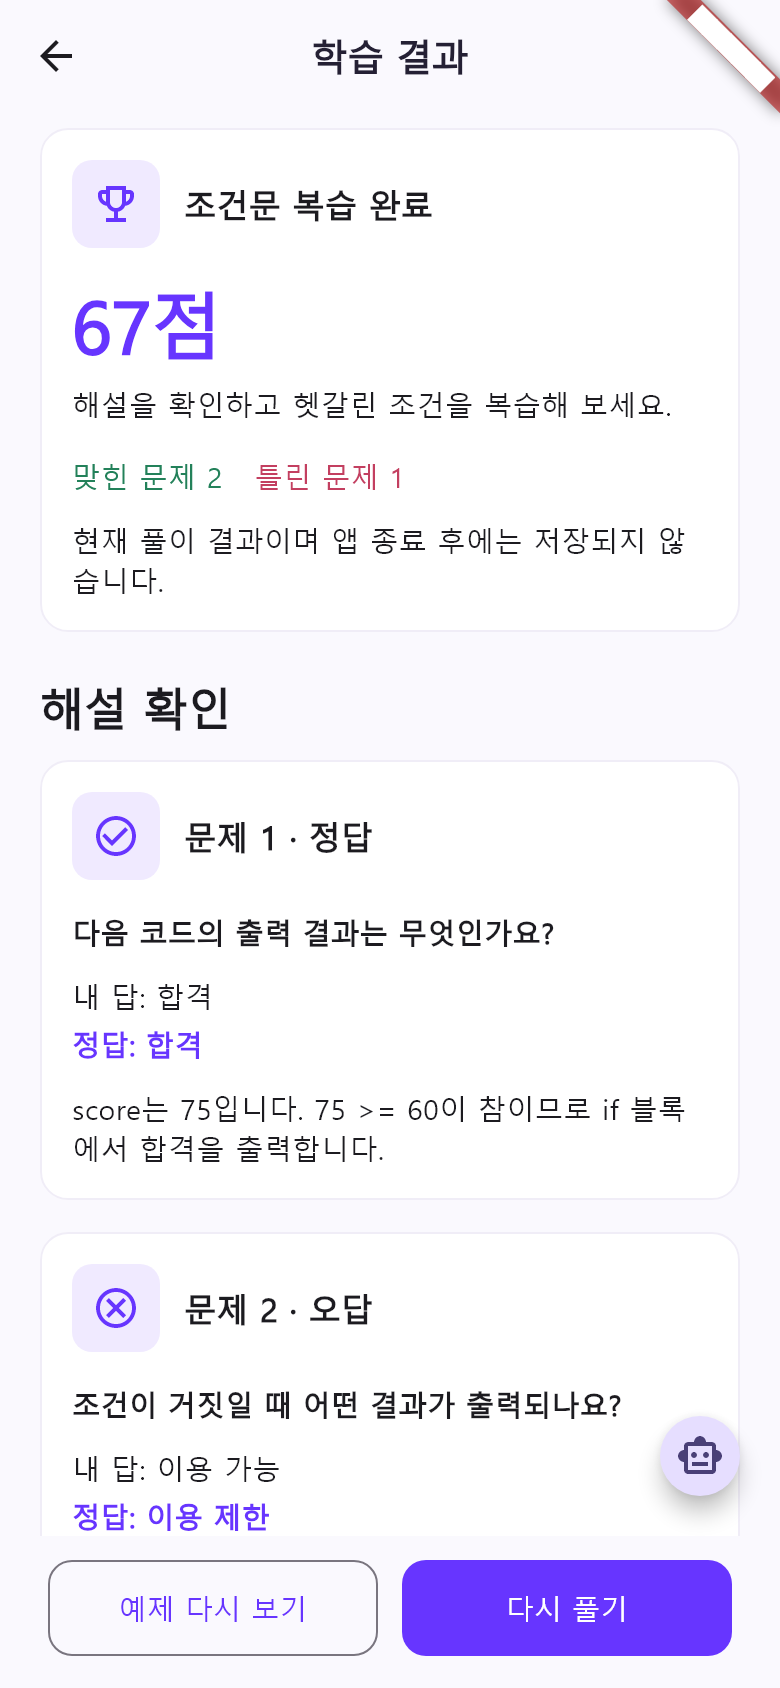
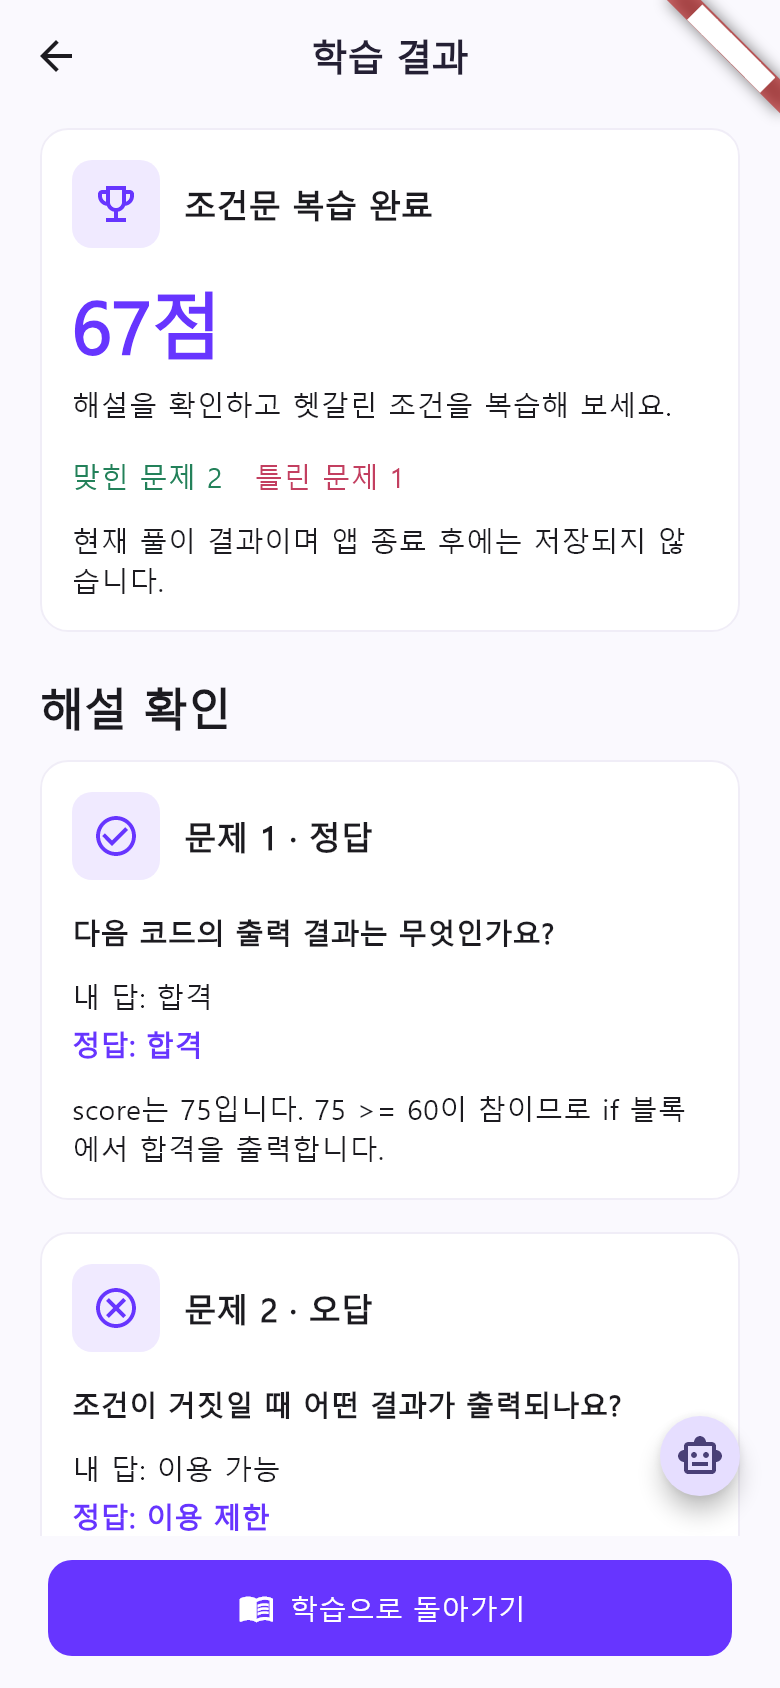
fix: 퀴즈 결과에서 학습 목록으로 복귀하도록 변경

Changed region(s): [[0.0615, 0.9242, 0.5538, 0.9858], [0.7385, 0.9242, 0.7692, 0.955], [0.6462, 0.9242, 0.6769, 0.955]]

diff --git a/test/grammar_quiz_test.dart b/test/grammar_quiz_test.dart
@@ -4,7 +4,7 @@ import 'package:flutter/material.dart';
 import 'package:flutter_test/flutter_test.dart';
 
 void main() {
-  testWidgets('답 선택과 해설, 오답 채점, 결과 및 재시도가 동작한다', (tester) async {
+  testWidgets('답 선택과 해설, 오답 채점 후 학습 목록으로 돌아간다', (tester) async {
     tester.view.physicalSize = const Size(390, 844);
     tester.view.devicePixelRatio = 1;
     addTearDown(tester.view.resetPhysicalSize);
@@ -55,18 +55,15 @@ void main() {
     expect(find.text('67점'), findsOneWidget);
     expect(find.text('맞힌 문제 2'), findsOneWidget);
     expect(find.text('틀린 문제 1'), findsOneWidget);
-    await tester.tap(find.text('다시 풀기'));
+    expect(find.text('예제 다시 보기'), findsNothing);
+    expect(find.text('다시 풀기'), findsNothing);
+    await tester.tap(find.text('학습으로 돌아가기'));
     await tester.pumpAndSettle();
-    expect(find.text('문제 1 / 3'), findsOneWidget);
-    expect(
-      tester
-          .widget<FilledButton>(find.widgetWithText(FilledButton, '정답 제출'))
-          .onPressed,
-      isNull,
-    );
-    await tester.tap(find.byTooltip('뒤로가기'));
-    await tester.pumpAndSettle();
-    expect(find.text('예제 3 / 3'), findsOneWidget);
+    expect(find.text('Java 문법'), findsOneWidget);
+    expect(find.text('2개 챕터 · 예시 진행률'), findsOneWidget);
+    expect(find.text('조건문'), findsOneWidget);
+    expect(find.text('반복문'), findsOneWidget);
+    expect(appRouter.canPop(), isFalse);
     expect(tester.takeException(), isNull);
   });
 

diff --git a/lib/features/grammar/presentation/grammar_quiz_result_screen.dart b/lib/features/grammar/presentation/grammar_quiz_result_screen.dart
@@ -9,13 +9,11 @@ class GrammarQuizResultScreen extends StatelessWidget {
     super.key,
     required this.questions,
     required this.answers,
-    required this.onRetry,
-    required this.onExamples,
+    required this.onReturnToLearning,
   });
   final List<ConditionQuestion> questions;
   final List<int> answers;
-  final VoidCallback onRetry;
-  final VoidCallback onExamples;
+  final VoidCallback onReturnToLearning;
 
   @override
   Widget build(BuildContext context) {
@@ -26,19 +24,13 @@ class GrammarQuizResultScreen extends StatelessWidget {
     final score = (correct / questions.length * 100).round();
     return GrammarScaffold(
       title: '학습 결과',
-      footer: Row(
-        children: [
-          Expanded(
-            child: OutlinedButton(
-              onPressed: onExamples,
-              child: const Text('예제 다시 보기'),
-            ),
-          ),
-          const SizedBox(width: 12),
-          Expanded(
-            child: FilledButton(onPressed: onRetry, child: const Text('다시 풀기')),
-          ),
-        ],
+      footer: SizedBox(
+        width: double.infinity,
+        child: FilledButton.icon(
+          onPressed: onReturnToLearning,
+          icon: const Icon(Icons.menu_book_outlined),
+          label: const Text('학습으로 돌아가기'),
+        ),
       ),
       body: ListView(
         padding: const EdgeInsets.fromLTRB(20, 8, 20, 88),

diff --git a/lib/features/grammar/presentation/grammar_quiz_screen.dart b/lib/features/grammar/presentation/grammar_quiz_screen.dart
@@ -51,13 +51,11 @@ class _GrammarQuizScreenState extends State<GrammarQuizScreen> {
       return GrammarQuizResultScreen(
         questions: _questions,
         answers: _answers,
-        onExamples: () => context.pop(),
-        onRetry: () => setState(() {
-          _answers.clear();
-          _selected = null;
-          _submitted = false;
-          _showResult = false;
-        }),
+        onReturnToLearning: () => context.goNamed(
+          AppRouteNames.grammarChapters,
+          pathParameters: {'language': widget.language.id},
+          queryParameters: {'category': GrammarCategory.control.name},
+        ),
       );
     }
     final question = _questions[_answers.length];

diff --git a/docs/grammar-screens.md b/docs/grammar-screens.md
@@ -74,6 +74,8 @@
 
 - 3문항 제출 완료 후 현재 퀴즈 화면에서 점수, 정답·오답 수와 각 문항의 내 답·정답·해설을 표시합니다.
 - 점수는 맞힌 수 / 전체 문항 수 × 100을 반올림합니다.
-- `다시 풀기`는 답안을 초기화하며 `예제 다시 보기`는 진입했던 예제로 복귀합니다.
+- 결과 하단에는 `학습으로 돌아가기` 버튼 하나를 표시합니다.
+- 선택한 언어의 제어문 챕터 목록으로 이동하고 완료한 퀴즈 화면 이력을 정리합니다.
+- 다시 학습하려면 목록에서 조건문을 선택합니다. 새 퀴즈는 초기 상태로 시작합니다.
 - 결과와 답안은 현재 화면에서만 유지됩니다. 서버 저장·오답노트·웹 연계는 구현하지 않습니다.
 - `grammar-quiz.png`, `grammar-quiz-result.png`는 검토용 렌더링 이미지입니다.
